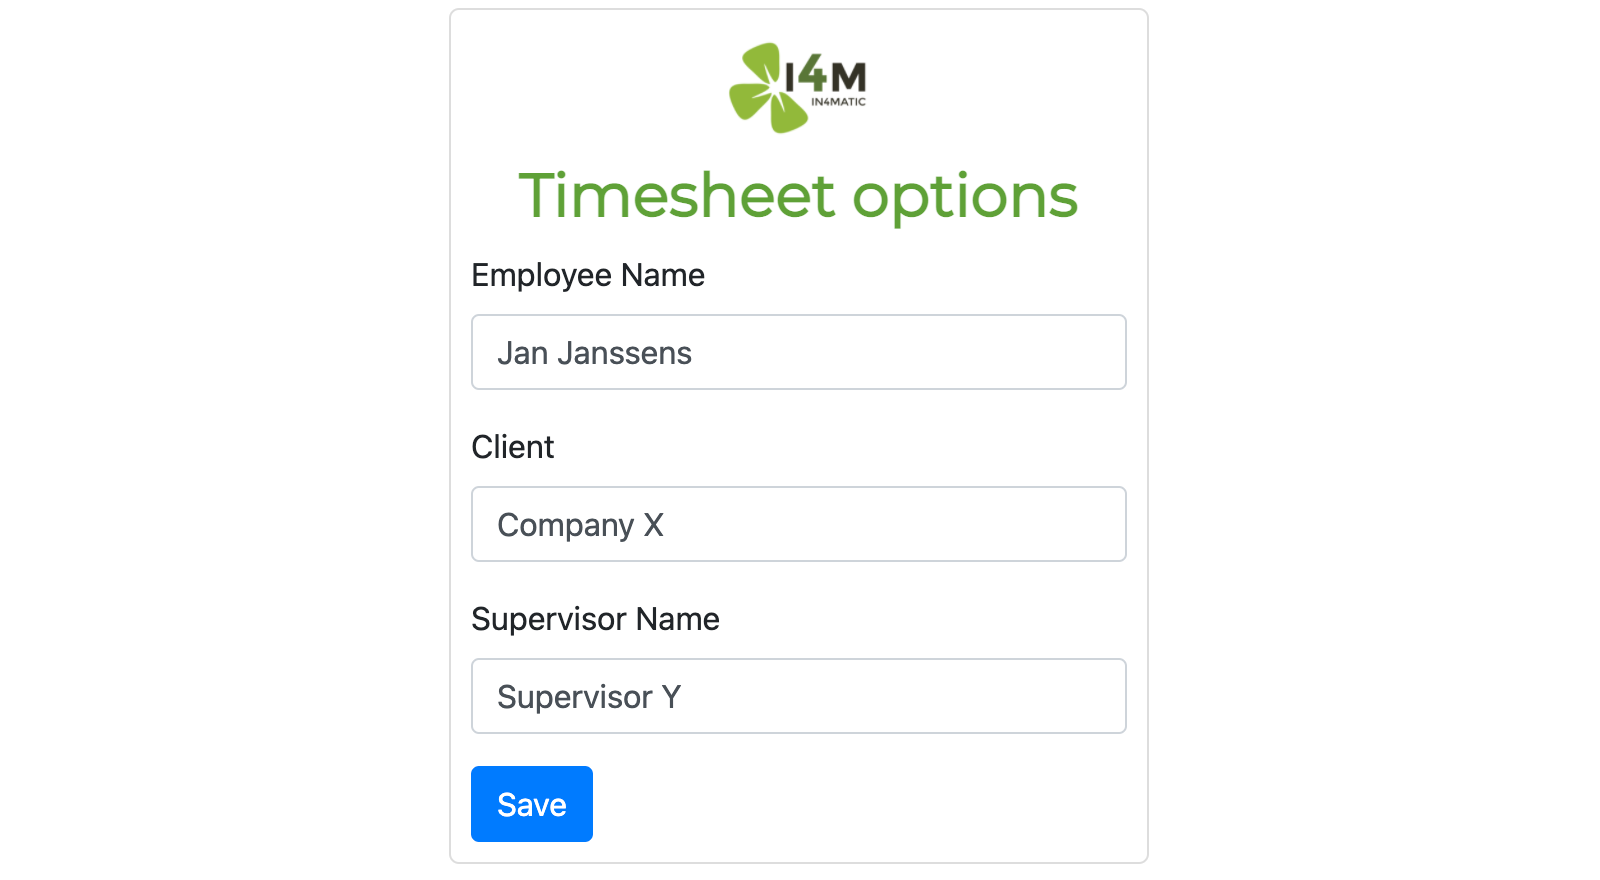
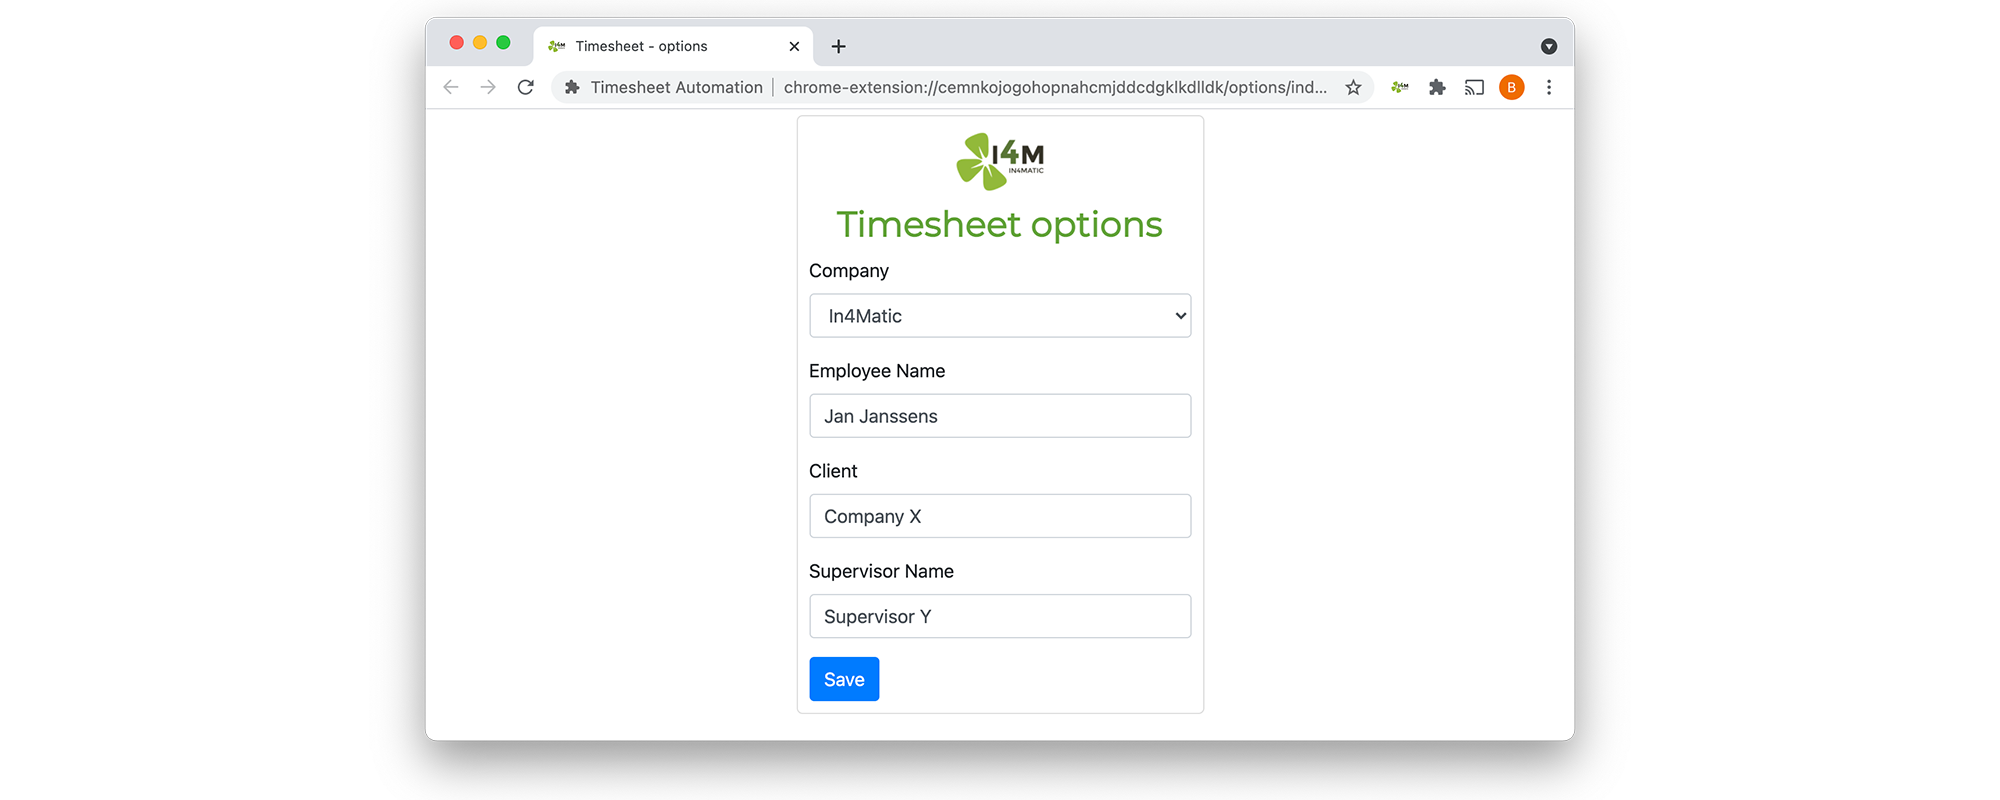
Version 2.2
- Added timesheeft layout for In4Matic, I4F and 4IT Consulting

Changed region(s): [[0.1875, 0.0, 0.8125, 1.0], [0.2812, 0.5, 0.3438, 0.5312], [0.6875, 0.8125, 0.7188, 0.8438]]

diff --git a/TimesheetAutomation/options/index.js b/TimesheetAutomation/options/index.js
@@ -1,10 +1,31 @@
+// Changes company logo
+function change_company() {
+  const company = document.getElementById('company').value;
+  const headerImage = document.getElementById('headerImage');
+  switch (company) {
+    case 'i4m':
+      headerImage.src = '../img/i4m_header.png';
+      break;
+    case 'i4f':
+      headerImage.src = '../img/i4f_header.png';
+      break;
+    case '4it':
+      headerImage.src = '../img/4it_header.png';
+      break;
+    default:
+      break;
+  }
+}
+
 // Saves options to chrome.storage
 function save_options() {
+  const company = document.getElementById('company').value;
   const employee = document.getElementById('employee').value;
   const client = document.getElementById('client').value;
   const supervisor = document.getElementById('supervisor').value;
   chrome.storage.local.set(
     {
+      company,
       employee,
       client,
       supervisor,
@@ -23,22 +44,26 @@ function save_options() {
   );
 }
 
-// Restores select box and checkbox state using the preferences
+// Restores select box and inputs state using the preferences
 // stored in chrome.storage.
 function restore_options() {
   chrome.storage.local.get(
     {
+      company: 'i4m',
       employee: '',
       client: '',
       supervisor: '',
     },
     function (items) {
+      document.getElementById('company').value = items.company;
       document.getElementById('employee').value = items.employee;
       document.getElementById('client').value = items.client;
       document.getElementById('supervisor').value = items.supervisor;
+      change_company();
     }
   );
 }
 
-document.addEventListener('DOMContentLoaded', restore_options);
+restore_options();
+document.getElementById('company').addEventListener('change', change_company);
 document.getElementById('save').addEventListener('click', save_options);

diff --git a/TimesheetAutomation/timesheet/script.js b/TimesheetAutomation/timesheet/script.js
@@ -3,11 +3,37 @@ let notesEnabled = false;
 function getStorageData() {
   chrome.storage.local.get(
     {
+      company: 'i4m',
       employee: '',
       client: '',
       supervisor: '',
     },
     (items) => {
+      const headerImage = document.getElementById('headerImage');
+      const footerCompany = document.getElementById('footerCompany');
+      const footerDetails = document.getElementById('footerDetails');
+      switch (items.company) {
+        case 'i4m':
+          headerImage.src = '../img/i4m_header.png';
+          footerCompany.innerText = 'In4Matic N.V.';
+          footerDetails.innerHTML =
+            'Vosselarestraat 73, 9850 DEINZE &#8226; Tel.: +32 9 237 26 40 &#8226; E-mail: info@i4m.be &#8226; www.i4m.be';
+          break;
+        case 'i4f':
+          headerImage.src = '../img/i4f_header.png';
+          footerCompany.innerText = 'I4F';
+          footerDetails.innerHTML =
+            'Nevelestraat 106, 9880 AALTER &#8226; Tel.: +32 9 237 26 40 &#8226; E-mail: info@i4f.be &#8226; www.i4f.be';
+          break;
+        case '4it':
+          headerImage.src = '../img/4it_header.png';
+          footerCompany.innerText = '4IT Consulting';
+          footerDetails.innerHTML =
+            'Zeerobbenlaan 5, 8300 KNOKKE &#8226; Tel.: +32 9 237 26 40 &#8226; E-mail: info@4it.consulting &#8226; www.4it.consulting';
+          break;
+        default:
+          break;
+      }
       document.getElementById('employee').innerText = items.employee;
       document.getElementById('client').innerText = items.client;
       document.getElementById('supervisor').innerText = items.supervisor;

diff --git a/TimesheetAutomation/options/index.html b/TimesheetAutomation/options/index.html
@@ -1,7 +1,7 @@
 <!DOCTYPE html>
 <html>
   <head>
-    <title>Timesheet automation - options</title>
+    <title>Timesheet - options</title>
     <link
       rel="stylesheet"
       href="https://stackpath.bootstrapcdn.com/bootstrap/4.4.1/css/bootstrap.min.css"
@@ -17,10 +17,22 @@
   <body>
     <div id="container">
       <h1 style="text-align: center">
-        <img style="height: 50px" src="../img/i4m_header.png" /><br />
+        <img
+          id="headerImage"
+          style="height: 50px"
+          src="../img/i4m_header.png"
+        /><br />
         <span id="headerText">Timesheet options</span>
       </h1>
       <form>
+        <div class="form-group">
+          <label for="employee">Company</label>
+          <select class="form-control" id="company">
+            <option value="i4m">In4Matic</option>
+            <option value="i4f">I4F</option>
+            <option value="4it">4IT Consulting</option>
+          </select>
+        </div>
         <div class="form-group">
           <label for="employee">Employee Name</label>
           <input type="text" class="form-control" id="employee" />

diff --git a/TimesheetAutomation/timesheet/template.html b/TimesheetAutomation/timesheet/template.html
@@ -2,7 +2,7 @@
 <html lang="nl">
   <head>
     <meta charset="utf-8" />
-    <title>In4Matic timesheet</title>
+    <title>Timesheet</title>
     <meta name="viewport" content="width=device-width, initial-scale=1" />
     <link
       href="https://fonts.googleapis.com/css?family=Montserrat"
@@ -31,7 +31,7 @@
       <table id="header">
         <tr>
           <td style="width: 250px">
-            <img style="width: 100%" src="../img/i4m_header.png" />
+            <img id="headerImage" style="width: 100%" />
           </td>
           <td style="text-align: center">
             <span id="headerText">TIMESHEET</span>
@@ -95,11 +95,8 @@
         </tr>
       </table>
       <div id="footerText">
-        <span>In4Matic N.V.</span><br />
-        <span>
-          Industrieweg 190 B-9030 GENT &#8226; Tel.: +32 9 237 26 45 &#8226;
-          E-mail: info@i4m.be &#8226; www.i4m.be
-        </span>
+        <span id="footerCompany"></span><br />
+        <span id="footerDetails"></span>
       </div>
     </div>
     <script src="script.js"></script>

diff --git a/README.md b/README.md
@@ -25,7 +25,7 @@ Officiënt will open in a new tab. After logging in, it will automatically navig
 ### Generate timesheet
 
 `Click on the extension` in the navigation bar when the Officiënt calendar tab is active. A timesheet will automatically be generated based on the off days from the calendar.
-![In4Matic timesheet](Images/Extension_1_wide.png)
+![In4Matic timesheet](Images/Extension_4_marquee.png)
 The timesheet can be edited and printed for signing afterwards.
 
 ### Options
